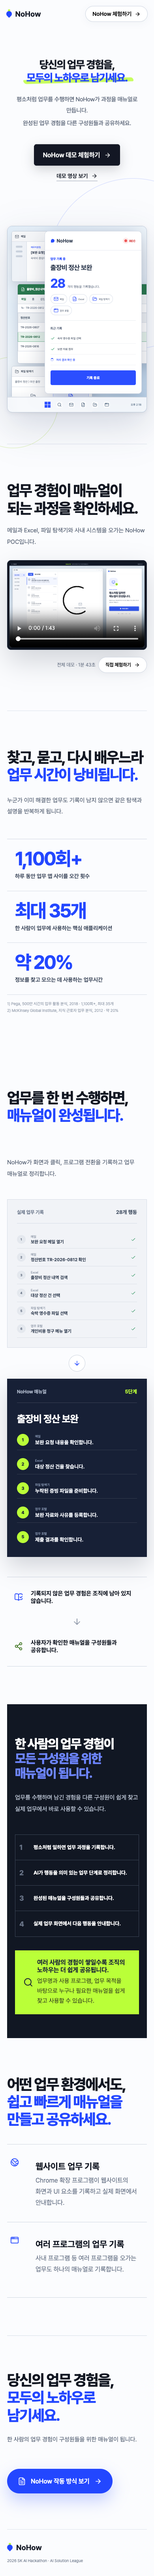
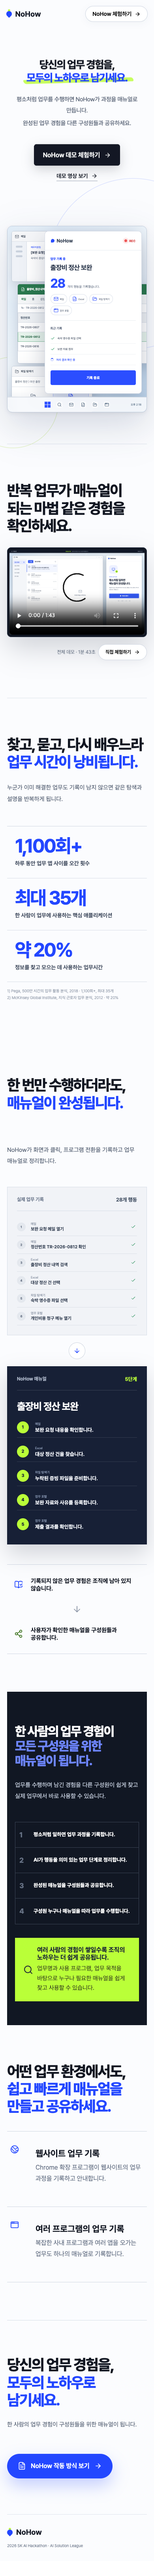
Refine NoHow landing copy

diff --git a/src/Landing.tsx b/src/Landing.tsx
@@ -47,7 +47,7 @@ const capabilities = [
   { icon: Monitor, title: '평소처럼 일하면 업무 과정을 기록합니다.' },
   { icon: Sparkles, title: 'AI가 행동을 의미 있는 업무 단계로 정리합니다.' },
   { icon: Share2, title: '완성된 매뉴얼을 구성원들과 공유합니다.' },
-  { icon: MousePointer2, title: '실제 업무 화면에서 다음 행동을 안내합니다.' },
+  { icon: MousePointer2, title: '구성원 누구나 매뉴얼을 따라 업무를 수행합니다.' },
 ]
 
 export function Landing({ onDemo }: { onDemo: () => void }) {
@@ -159,8 +159,7 @@ export function Landing({ onDemo }: { onDemo: () => void }) {
 
       <section className="demo-video-section" id="demo-video">
         <div className="demo-video-heading">
-          <h2>업무 경험이 매뉴얼이 되는 과정을 확인하세요.</h2>
-          <p>메일과 Excel, 파일 탐색기와 사내 시스템을 오가는 NoHow POC입니다.</p>
+          <h2>반복 업무가 매뉴얼이 되는 마법 같은 경험을 확인하세요.</h2>
         </div>
         <div className="demo-video-frame">
           <video controls playsInline preload="auto" poster={nohowDemoPoster} aria-label="NoHow 출장비 정산 보완 POC 데모 영상">
@@ -190,7 +189,7 @@ export function Landing({ onDemo }: { onDemo: () => void }) {
 
       <section className="focus-section" id="solution">
         <div className="focus-heading">
-          <h2>업무를 한 번 수행하면,<br /><span className="accent-line">매뉴얼이 완성됩니다.</span></h2>
+          <h2>한 번만 수행하더라도,<br /><span className="accent-line">매뉴얼이 완성됩니다.</span></h2>
           <p>NoHow가 화면과 클릭, 프로그램 전환을 기록하고 업무 매뉴얼로 정리합니다.</p>
         </div>
 
@@ -247,11 +246,11 @@ export function Landing({ onDemo }: { onDemo: () => void }) {
         <div className="platform-list">
           <article>
             <Globe2 size={22} />
-            <div><h3>웹사이트 업무 기록</h3><p>Chrome 확장 프로그램이 웹사이트의 화면과 UI 요소를 기록하고 실제 화면에서 안내합니다.</p></div>
+            <div><h3>웹사이트 업무 기록</h3><p>Chrome 확장 프로그램이 웹사이트의 업무 과정을 기록하고 안내합니다.</p></div>
           </article>
           <article>
             <AppWindow size={22} />
-            <div><h3>여러 프로그램의 업무 기록</h3><p>사내 프로그램 등 여러 프로그램을 오가는 업무도 하나의 매뉴얼로 기록합니다.</p></div>
+            <div><h3>여러 프로그램의 업무 기록</h3><p>복잡한 사내 프로그램과 여러 앱을 오가는 업무도 하나의 매뉴얼로 기록합니다.</p></div>
           </article>
         </div>
       </section>
